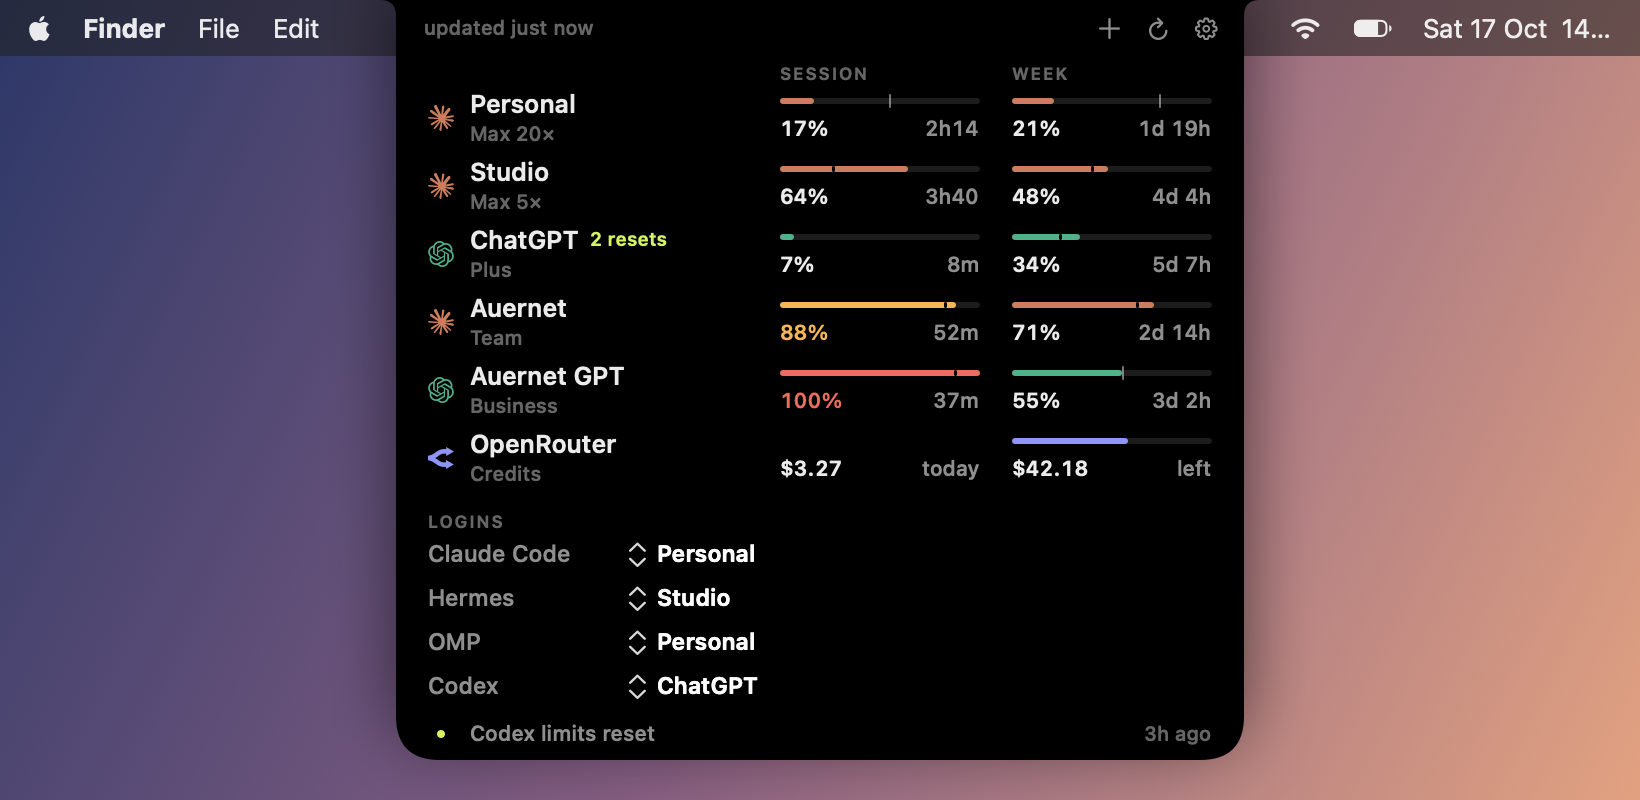
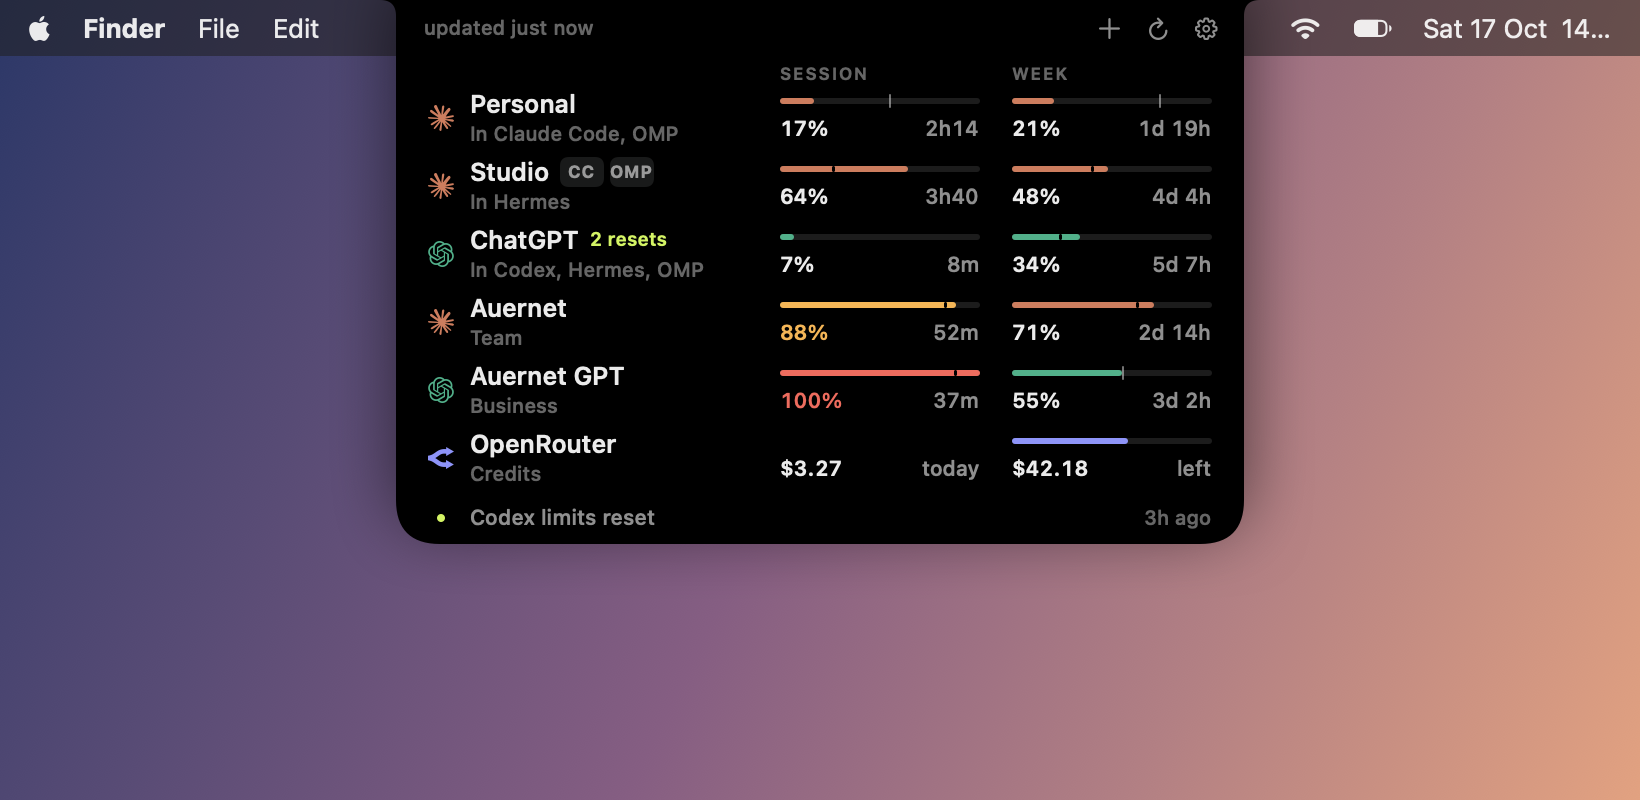
feat(ui): switch buttons on account hover, drop Logins list

diff --git a/src/NotchView.swift b/src/NotchView.swift
@@ -98,7 +98,7 @@ struct NotchView: View {
     private var flashing: Bool { store.flash != nil && !model.open }
 
     private var size: CGSize {
-        if model.open { return model.openSize(rows: rows.count, footer: store.announcement != nil, logins: store.loginTools.count) }
+        if model.open { return model.openSize(rows: rows.count, footer: store.announcement != nil) }
         var s = model.collapsedSize
         if flashing { s.height += NotchModel.flashHeight; s.width = max(s.width, 360) }
         return s
@@ -197,7 +197,8 @@ struct NotchView: View {
                 .padding(.horizontal, 16)
                 .frame(height: 14, alignment: .bottom)
                 ForEach(rows) { a in
-                    Row(account: a, usage: store.usage[a.id], now: store.now, lowBalance: store.settings.lowBalance)
+                    Row(account: a, usage: store.usage[a.id], now: store.now, lowBalance: store.settings.lowBalance,
+                        chips: store.chips(a), hovering: model.hoveredRow == a.id) { store.switchTool($0, to: a) }
                         .frame(height: NotchModel.rowHeight)
                         .padding(.horizontal, 16)
                         .contentShape(Rectangle())
@@ -212,9 +213,6 @@ struct NotchView: View {
                             Button("Remove \(a.label)") { store.remove(a.id) }
                         }
                 }
-            }
-            if !store.loginTools.isEmpty {
-                Logins(store: store).padding(.horizontal, 16).padding(.top, 6)
             }
             if let an = store.announcement {
                 Announced(item: an, now: store.now).frame(height: 18).padding(.horizontal, 16).padding(.top, 4)
@@ -366,7 +364,7 @@ struct Row: View {
                         }
                         ToolChips(chips: chips, hovering: hovering, onSwitch: onSwitch)
                     }
-                    Text(subtitle).font(Theme.ui(10)).foregroundStyle(Theme.faint).lineLimit(1)
+                    Text(subtitle).font(Theme.ui(10)).foregroundStyle(Theme.faint).lineLimit(1).help(Fmt.plan(account.plan ?? usage?.plan) ?? "")
                 }
             }
             .frame(maxWidth: .infinity, alignment: .leading)
@@ -391,6 +389,9 @@ struct Row: View {
         if let m = usage?.windows.first(where: { $0.kind == .model && $0.percent >= 40 }) { parts.append("\(m.label) \(Int(m.percent))%") }
         if parts.isEmpty { parts.append(account.provider.name) }
         if usage?.error != nil, usage?.needsAuth != true, !(usage?.windows.isEmpty ?? true) { parts.append("stale") }
+        // Where it's in use says more than the plan; the plan moves to the tooltip then.
+        let used = chips.filter(\.active).map(\.tool.name)
+        if !used.isEmpty { return "In " + used.joined(separator: ", ") }
         return parts.joined(separator: " · ")
     }
 }
@@ -600,8 +601,8 @@ struct ToolChips: View {
 
     var body: some View {
         HStack(spacing: 3) {
-            ForEach(chips.filter { hovering || $0.active || $0.busy || $0.mine != nil }) { c in
-                ToolChip(chip: c) { if !c.active { onSwitch(c.tool) } }
+            ForEach(chips.filter { (hovering && !$0.active) || $0.busy }) { c in
+                ToolChip(chip: c) { onSwitch(c.tool) }
                     .transition(.opacity)
             }
         }
@@ -617,25 +618,20 @@ struct ToolChip: View {
     var body: some View {
         Button(action: action) {
             ZStack {
+                RoundedRectangle(cornerRadius: 4).fill(Color.white.opacity(hover ? 0.22 : 0.1))
                 if chip.busy {
-                    ProgressView().controlSize(.mini).scaleEffect(0.6)
+                    ProgressView().controlSize(.mini).scaleEffect(0.55)
                 } else {
-                    ToolGlyph(tool: chip.tool).foregroundStyle(color)
+                    ToolGlyph(tool: chip.tool).foregroundStyle(hover ? Theme.text : Theme.dim)
                 }
             }
-            .frame(width: 13, height: 13)
+            .frame(width: 22, height: 15)
             .contentShape(Rectangle())
         }
         .buttonStyle(.plain)
         .disabled(chip.busy)
         .onHover { hover = $0 }
-        .help(chip.help)
-    }
-
-    private var color: Color {
-        if chip.mine != nil || (chip.other != nil && !chip.active) { return Theme.warn.opacity(chip.active || hover ? 0.9 : 0.6) }
-        if chip.active { return Theme.text }
-        return hover ? Theme.text : Theme.faint
+        .help("Switch \(chip.tool.name) to this account")
     }
 }
 
@@ -644,13 +640,11 @@ struct ToolGlyph: View {
     let tool: Tool
 
     var body: some View {
-        switch tool {
-        case .claudeCode: Image(systemName: "terminal").font(.system(size: 9.5, weight: .semibold))
-        case .codex: Image(systemName: "curlybraces").font(.system(size: 9.5, weight: .semibold))
-        case .hermes: Image(systemName: "paperplane").font(.system(size: 9.5, weight: .semibold))
-        case .omp: Text("π").font(.system(size: 12, weight: .semibold, design: .serif)).offset(y: -0.5)
-        }
+        Text(Self.letters[tool] ?? "?").font(.system(size: 8.5, weight: .bold)).kerning(0.3)
     }
+
+    /// Same size for every tool: two-letter monograms.
+    static let letters: [Tool: String] = [.claudeCode: "CC", .codex: "CX", .hermes: "HA", .omp: "OMP"]
 }
 
 

diff --git a/src/NotchController.swift b/src/NotchController.swift
@@ -112,7 +112,7 @@ final class NotchController {
     /// The black shape's current rect in screen coordinates.
     private func shapeRect(open: Bool) -> NSRect {
         guard current != nil else { return .zero }
-        let size = open ? model.openSize(rows: store.visible.count, footer: store.announcement != nil, logins: store.loginTools.count) : model.collapsedSize
+        let size = open ? model.openSize(rows: store.visible.count, footer: store.announcement != nil) : model.collapsedSize
         let inset = model.hasNotch ? NotchModel.topRadius : 0
         let w = size.width - 2 * inset
         let pf = panel.frame
